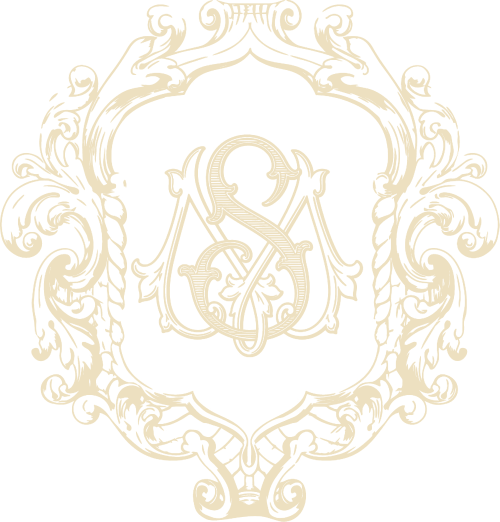
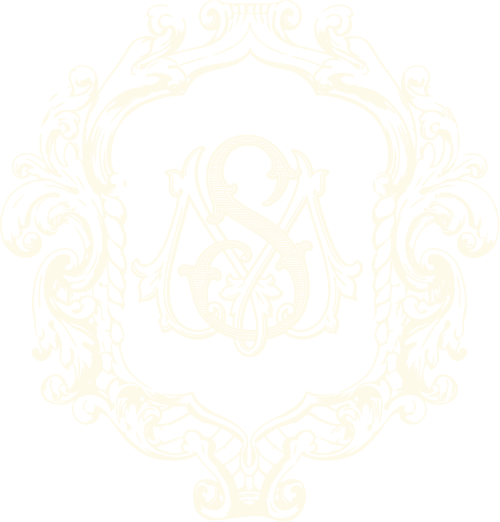
Mobile home: recolor monogram/text/button to #fffae9, tighten sizes
- Monogram recolored to #fffae9 (was a darker cream) and nudged down 20px
- Location/date text reduced in size and recolored to #fffae9
- RSVP button slightly smaller (132x40, was 150x44), background #fffae9

Changed region(s): [[0.0, 0.0, 0.99, 1.0], [0.99, 0.3985, 1.0, 0.4598], [0.96, 0.3678, 0.99, 0.3985]]

diff --git a/css/sections.css b/css/sections.css
@@ -322,6 +322,7 @@
 
   .page-home .home-hero__mark {
     width: 104px;
+    margin-top: 20px;
     margin-bottom: var(--space-md);
   }
 
@@ -332,34 +333,36 @@
     font-family: var(--font-display);
     font-weight: 700;
     font-style: italic;
-    font-size: 1.475rem;
+    font-size: 1.3rem;
     line-height: 1.2;
+    color: #fffae9;
   }
 
   .page-home .home-hero__date {
     font-family: var(--font-display);
     font-weight: 700;
     font-style: normal;
-    font-size: 1.3rem;
+    font-size: 1.15rem;
     line-height: 1.2;
     letter-spacing: normal;
     text-transform: none;
+    color: #fffae9;
     opacity: 0.95;
   }
 
   /* RSVP button: a small piece of stationery, not a website CTA. */
   .page-home .home-hero__cta .btn--hero {
-    width: 150px;
-    height: 44px;
+    width: 132px;
+    height: 40px;
     padding: 0;
-    background: #c9c2ac;
+    background: #fffae9;
     border: 1px solid var(--color-burgundy);
     border-radius: 3px;
     color: var(--color-burgundy);
     font-family: var(--font-display);
     font-style: italic;
     font-weight: 700;
-    font-size: 1.15rem;
+    font-size: 1.05rem;
     letter-spacing: normal;
     text-transform: none;
     backdrop-filter: none;
@@ -368,7 +371,7 @@
 
   .page-home .home-hero__cta .btn--hero:hover,
   .page-home .home-hero__cta .btn--hero:focus-visible {
-    background: #bdb59c;
+    background: #f0e6cc;
     border-color: var(--color-burgundy);
     color: var(--color-burgundy);
   }
